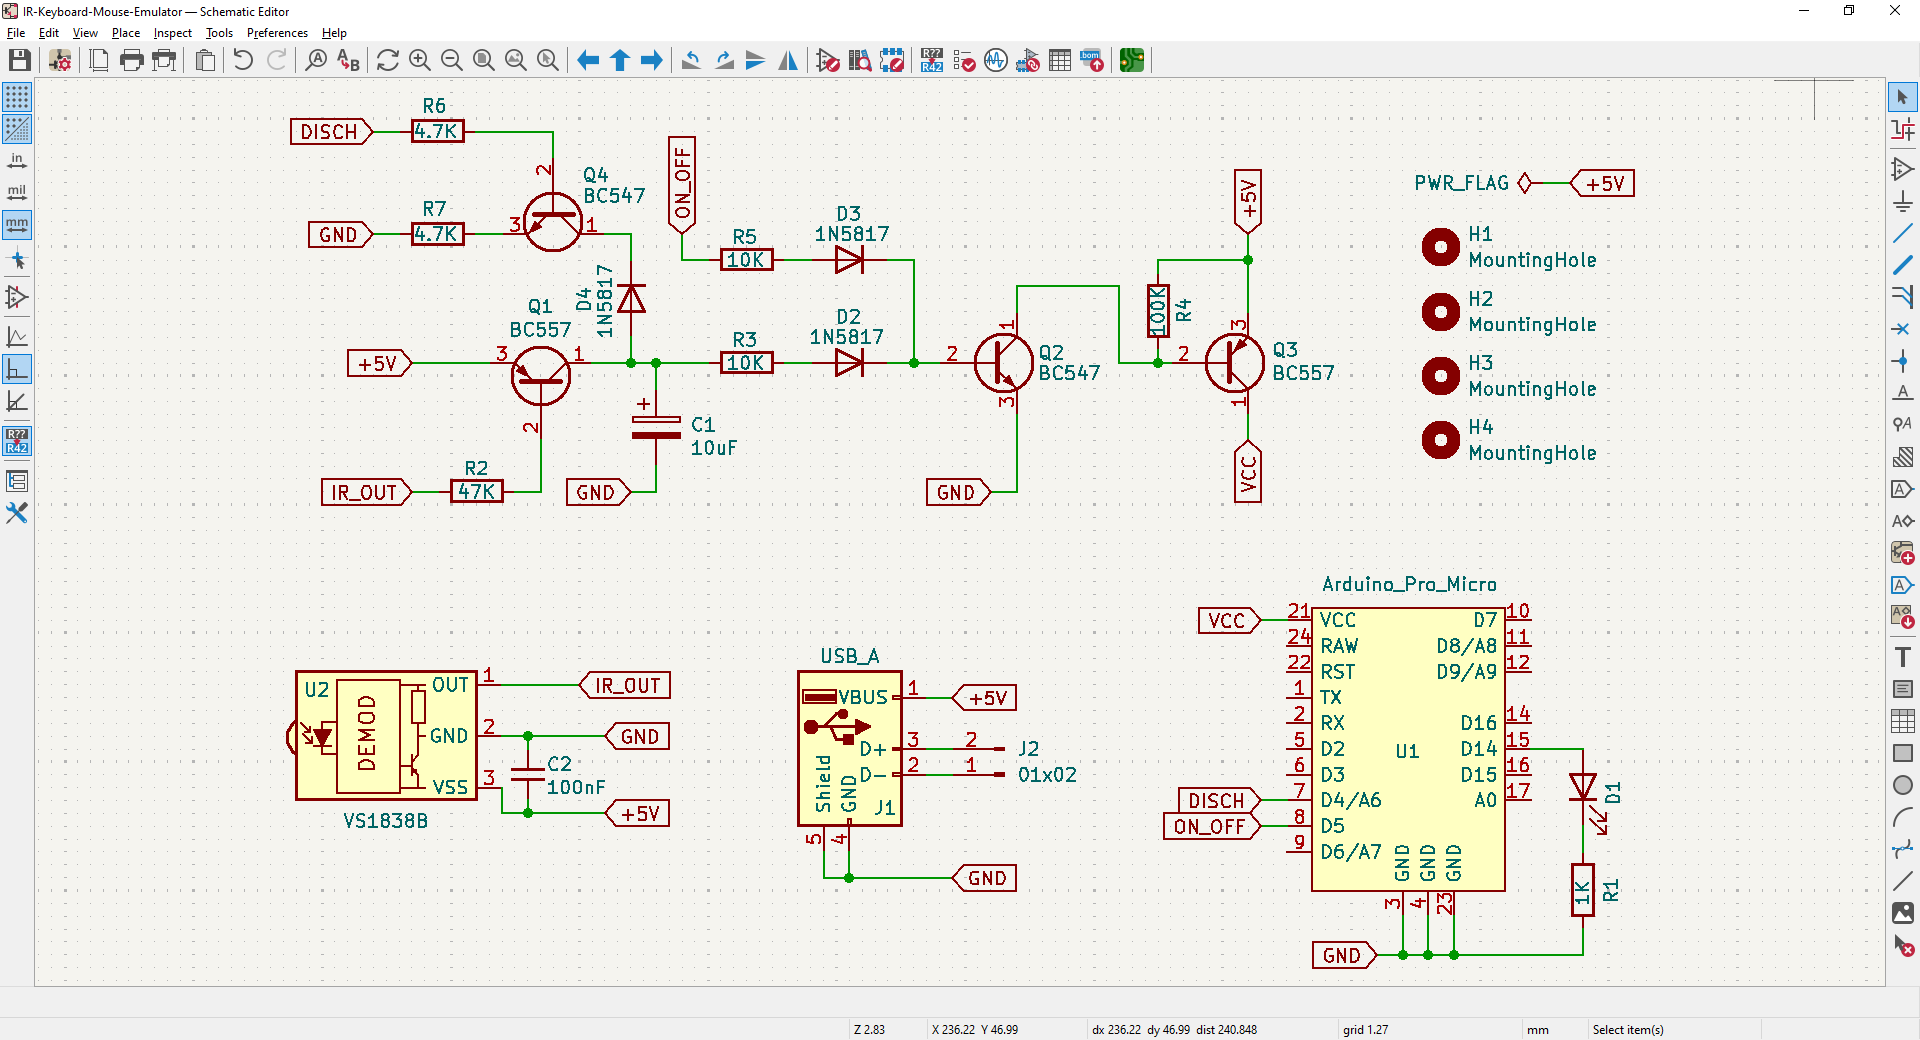
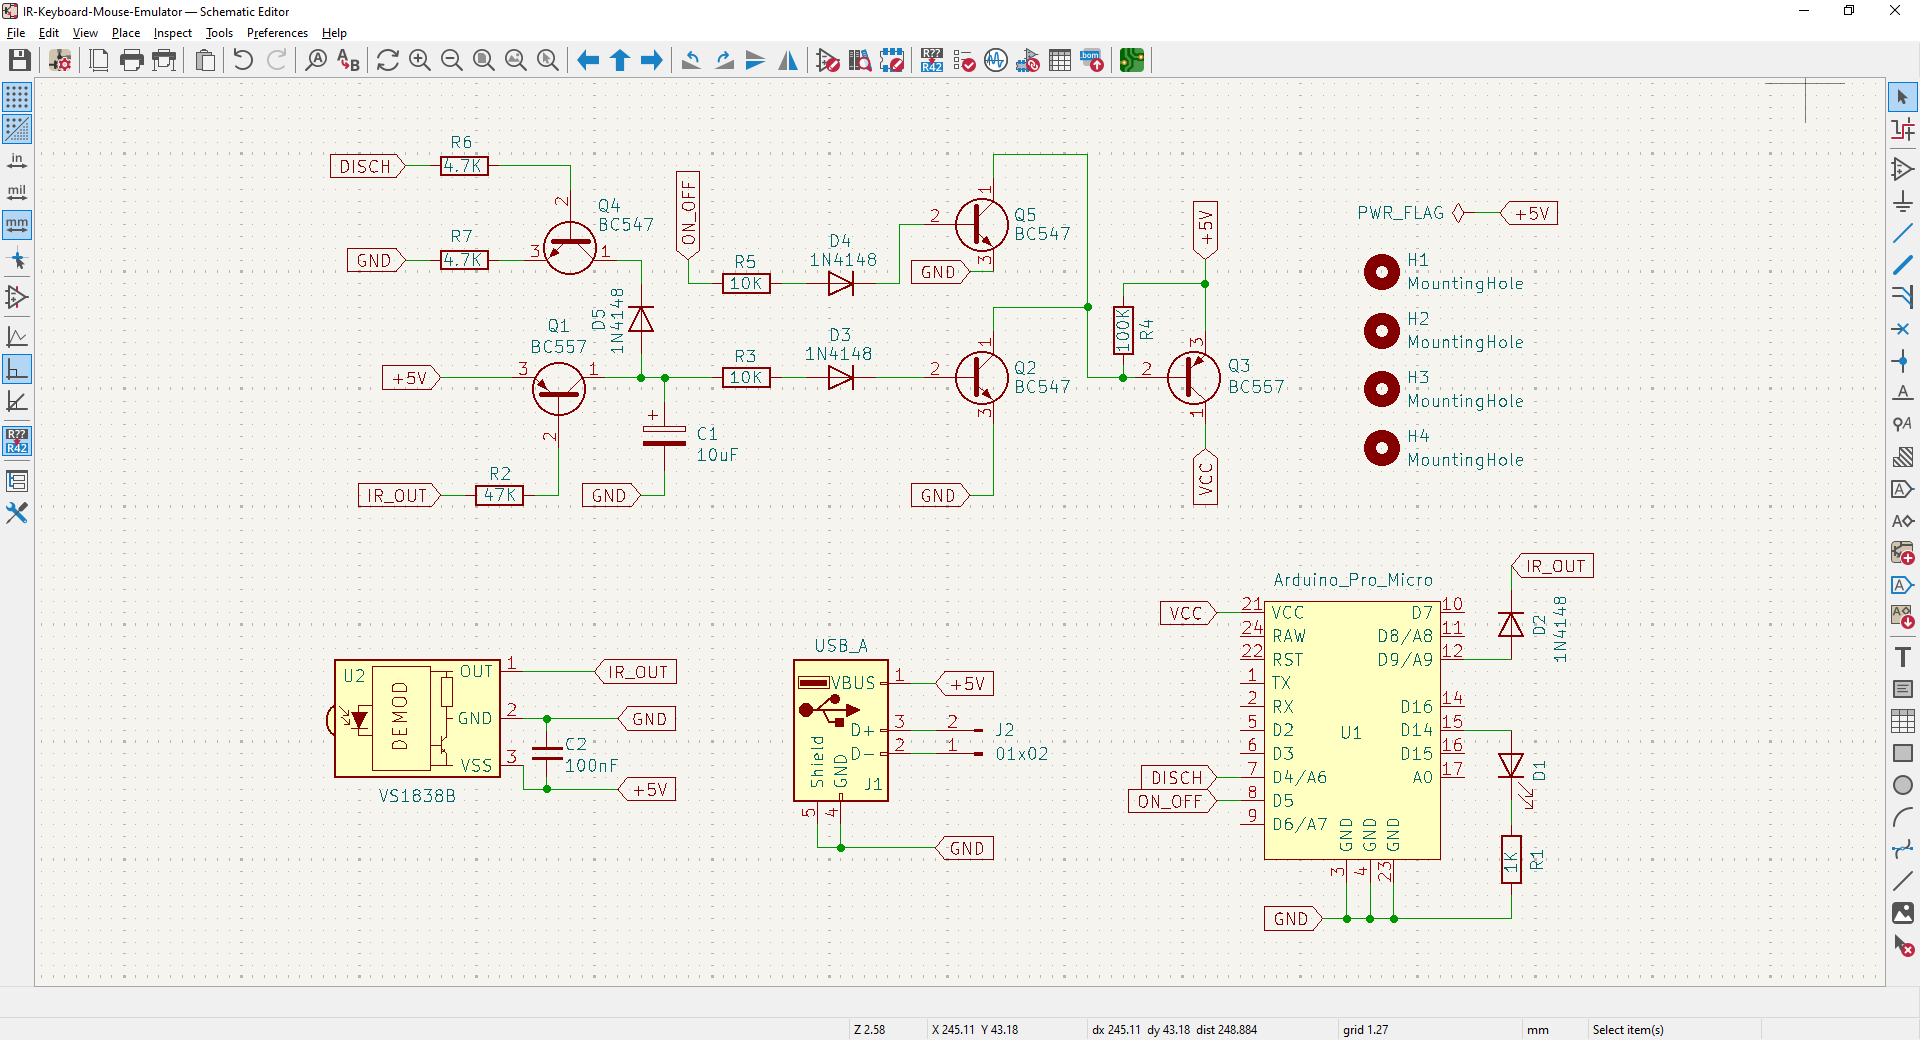
Adding low-power firmware

diff --git a/README.md b/README.md
@@ -3,7 +3,15 @@
 Electronic project for use a IR Remote Control to control a Home Theater PC (HTPC) based on Arduino PRO Micro.  
 Schematics diagram + PCB diagram (KiCAD 9) and case 3D model (Blender) are also provided.
 
-This project is a **work-in-progress**.
+This project comes in two versions: `Allways On` and `Low Power`.
+
+- The first option provides an immediate response when a remote control button is pressed.  
+However, the gadget will constantly draw approximately 35-40mA from the USB port.
+
+- The second option automatically powers down the device after 30 seconds of inactivity, and it powers back on upon receiving an IR signal.  
+This allows the gadget's power consumption to drop 99% of the time to ~1mA (the consumption of the IR sensor, the only component that remains powered on).  
+However, due to the power-up time and the wait for the PC to recognize the device, there is a slight delay before it can be used.
+
 
 &nbsp;
 
@@ -66,9 +74,9 @@ The 'Low Power' version uses the following electronic components:
 - 2 x 10k ohm resistor
 - 1 x 100k ohm resistor
 - 2 x 4.7k ohm resistor
-- 3 x 1N5817 schottky diode
+- 3 x 1N4148 schottky diode
 - 1 x 10uF electrolitic capacitor
-- 2 x BC547 PNP transistor
+- 3 x BC547 PNP transistor
 - 2 x BC557 NPN transistor
 - 1 x USB Type-A female connector
 - 1 x Bornier 2-pins / JST connector 2-pins
